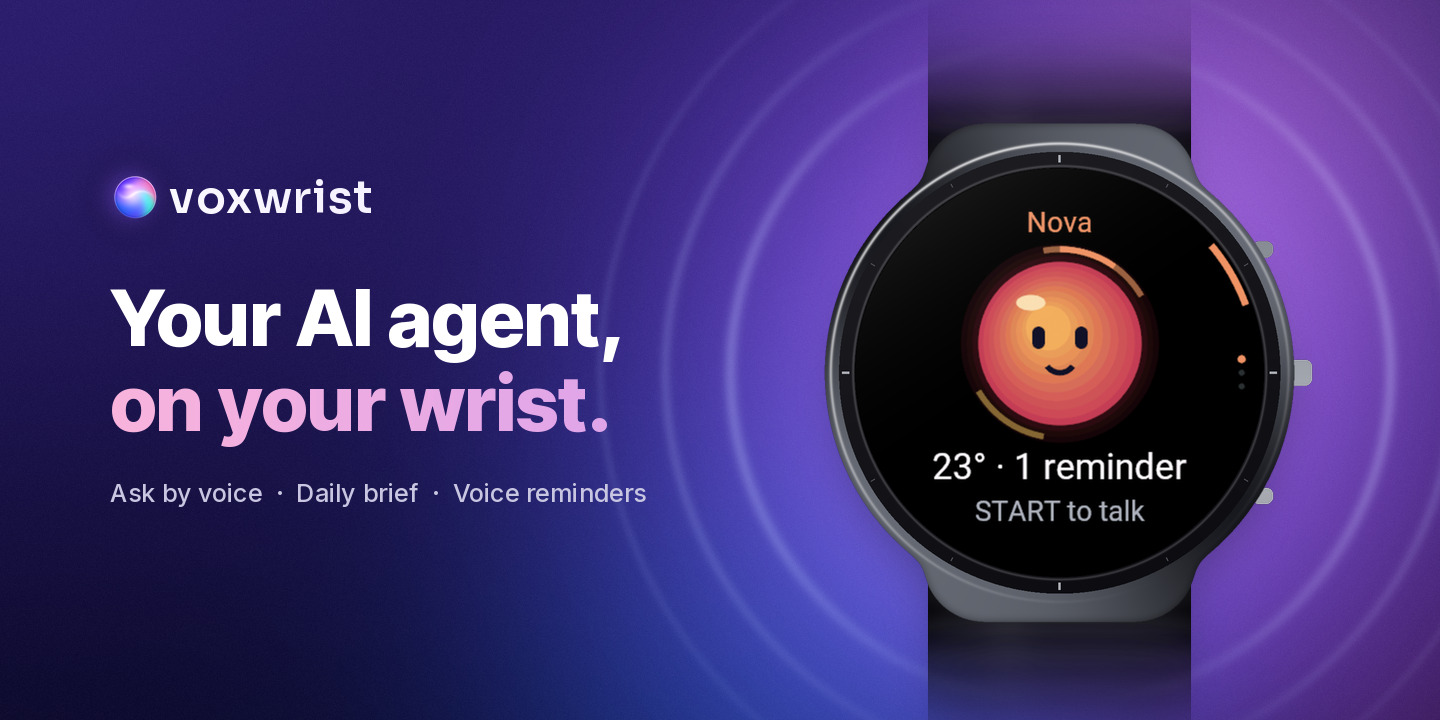
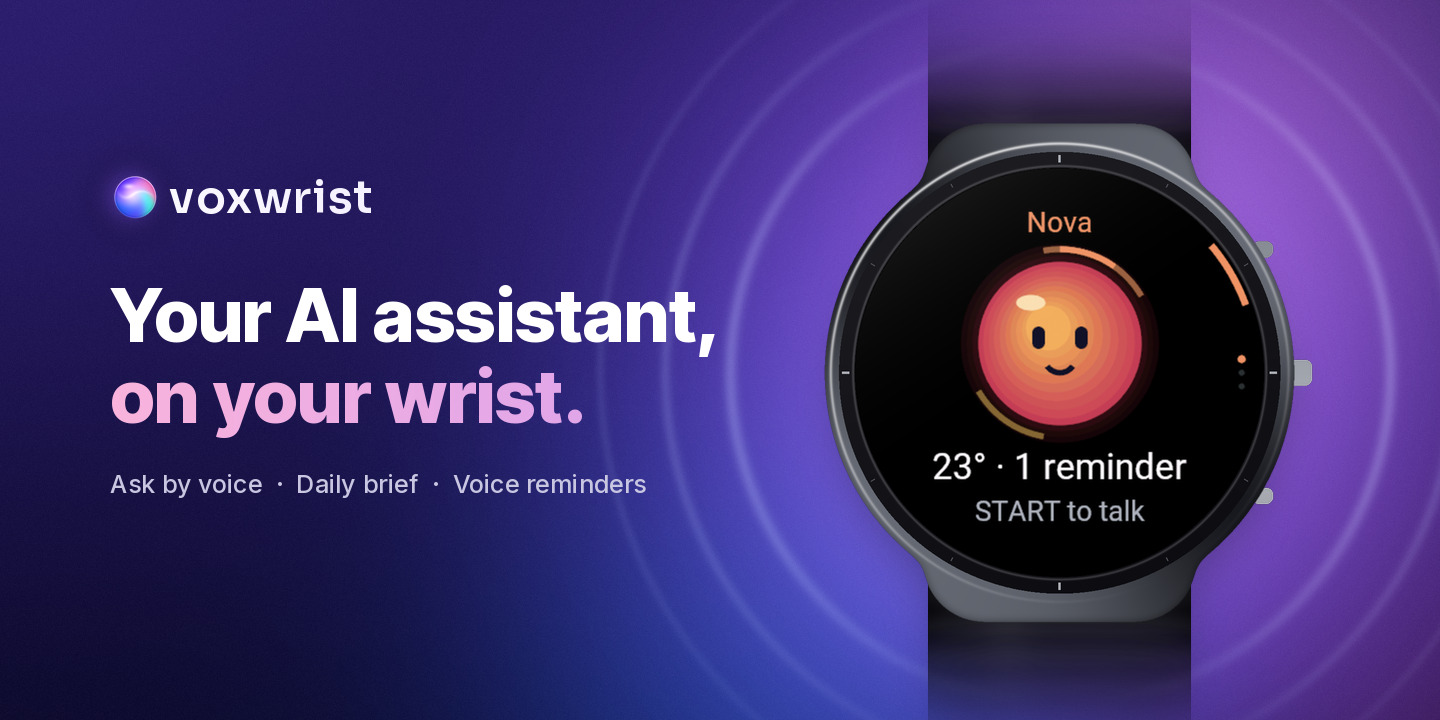
Fiche Store Ask : « assistant IA » au lieu d'« agent », e-mails/agenda/météo dès la 1re ligne, sections Fonctionne avec / clés / confidentialité, mots-clés SEO ; hero FR/EN « Votre assistant IA, à votre poignet. » / « Your AI assistant, on your wrist. »

Changed region(s): [[0.0625, 0.3972, 0.5, 0.7028]]

diff --git a/store-assets-v2/_build/hero.py b/store-assets-v2/_build/hero.py
@@ -3,8 +3,8 @@ from watch2 import watch2
 import sys
 SRC='/workspace/voxstore/src/voxwrist-site/store-screenshots/'
 HW,HH=1440,720
-TXT={'en':('Your AI agent,','on your wrist.','Ask by voice  ·  Daily brief  ·  Voice reminders'),
-     'fr':('Votre agent IA,','à votre poignet.','Questions vocales  ·  Brief du jour  ·  Rappels')}
+TXT={'en':('Your AI assistant,','on your wrist.','Ask by voice  ·  Daily brief  ·  Voice reminders'),
+     'fr':('Votre assistant IA,','à votre poignet.','Questions vocales  ·  Brief du jour  ·  Rappels')}
 def wordmark(img,x,y,size=46,mark=True):
     d=ImageDraw.Draw(img)
     if mark:

diff --git a/docs/STORE_LISTING.md b/docs/STORE_LISTING.md
@@ -60,35 +60,74 @@ EN: Needs one of the user's own API keys: OpenAI, Groq (free) or Google Gemini (
 - **Hero (1440×720)** : FR `assets-v2/voxwrist-ask-hero-1440x720-fr.jpg` · EN `assets-v2/voxwrist-ask-hero-1440x720-en.jpg`
 - **Galerie FR (5 JPG)** : `assets-v2/voxwrist-ask-screenshot-1-ask-voice-fr.jpg`, `-2-daily-brief-fr.jpg`, `-3-voice-reminders-fr.jpg`, `-4-follow-up-fr.jpg`, `-5-live-orb-fr.jpg`
 - **Galerie EN (5 JPG)** : `assets-v2/voxwrist-ask-screenshot-1-ask-voice-en.jpg`, `-2-daily-brief-en.jpg`, `-3-voice-reminders-en.jpg`, `-4-follow-up-en.jpg`, `-5-live-orb-en.jpg`
-- **Mots-clés** : assistant, ai, chatgpt, claude, voice assistant, agent, reminders, daily brief, assistant vocal, rappels
+- **Mots-clés** : assistant IA, AI assistant, voice assistant, assistant vocal, IA, AI, OpenAI, Gemini, Claude, Groq, email, e-mail, calendar, agenda, météo, weather, reminders, rappels, daily brief
+- **Accroche (1re ligne de la description)** : FR « Assistant IA vocal au poignet : posez vos questions, écoutez la réponse, retrouvez vos e-mails, votre agenda et la météo. » · EN “AI voice assistant on your wrist: ask anything, hear the answer, and check your emails, calendar and weather.” (le Store Connect IQ n'a pas de champ sous-titre : le titre reste « Voxwrist Ask »)
 
 ### Description FR
-Votre agent personnel, au poignet. Appuyez sur START, posez votre question, il vous répond à voix haute et à l'écran.
+Assistant IA vocal au poignet : posez vos questions, écoutez la réponse, retrouvez vos e-mails, votre agenda et la météo.
 
-• Un agent vivant : un orbe animé qui écoute, réfléchit et parle ; donnez-lui un nom et une couleur.
-• Brief du jour : météo, prochains rendez-vous de votre agenda, e-mails non lus, en un coup d'œil.
-• Rappels à la voix : « rappelle-moi à 18 h d'appeler Paul » ; la montre vous le rappelle à l'heure dite.
-• Conversation : enchaînez (« et demain ? ») sans répéter le contexte.
+Appuyez sur START, parlez, appuyez sur START : la réponse s'affiche à l'écran et elle est lue à voix haute (avec une clé OpenAI ou Gemini).
+
+CE QUE FAIT VOXWRIST ASK
+• Assistant vocal IA : posez n'importe quelle question à la voix, réponse à l'écran et à voix haute.
+• Brief du jour à l'ouverture : météo de votre ville, rendez-vous restants de la journée, nombre d'e-mails non lus avec les derniers expéditeurs et objets.
+• Rappels à la voix : « rappelle-moi à 18 h d'appeler Paul » ; la montre vous prévient à l'heure dite.
+• Questions de suivi : enchaînez (« et demain ? ») sans tout répéter.
+• Un orbe animé qui écoute, réfléchit et parle ; donnez-lui un nom et une couleur (Aurore, Lagon, Braise).
 • 2 appuis maximum, aucun clavier, aucun appui long.
 
-Apportez votre clé, gratuite ou payante : Google Gemini (gratuite, aistudio.google.com : réponses, et voix si disponible), Groq (gratuite, console.groq.com : réponses à l'écran) ou OpenAI (la meilleure voix, quelques centimes par jour). Anthropic Claude peut répondre, avec une clé Gemini, Groq ou OpenAI pour comprendre la voix. Sans clé OpenAI ni Gemini, la réponse s'affiche sans être lue.
-Connecteurs facultatifs (réglages) : ville pour la météo, lien iCal privé de votre agenda (Google Agenda, iCloud, Outlook), boîte e-mail IMAP en lecture seule avec mot de passe d'application.
-E-mail : fonctionne avec Gmail, iCloud, Yahoo, Orange et Free via un mot de passe d'application ; Outlook/Hotmail n'est pas pris en charge.
-Les rappels restent sur la montre. Ni l'audio, ni les textes, ni vos clés ne sont conservés par le relais Voxwrist. Pas de compte, pas de publicité.
+FONCTIONNE AVEC VOS E-MAILS, VOTRE AGENDA ET LA MÉTÉO
+Réglages facultatifs (appli Garmin Connect › Applis Connect IQ › Voxwrist Ask › Réglages) :
+• Météo : entrez votre ville (par exemple Paris).
+• Agenda : collez le lien iCal privé de votre agenda Google Agenda, iCloud ou Outlook.
+• E-mails : votre adresse et un mot de passe d'application (accès IMAP en lecture seule). Fonctionne avec Gmail, iCloud, Yahoo, Orange et Free. Les e-mails Outlook/Hotmail ne sont pas pris en charge.
+
+VOTRE CLÉ IA, GRATUITE OU PAYANTE
+• Google Gemini : gratuite (aistudio.google.com), réponses, et voix si disponible.
+• Groq : gratuite (console.groq.com), réponses à l'écran.
+• OpenAI : la meilleure voix, quelques centimes par jour.
+• Anthropic Claude : pour les réponses, avec une clé Gemini, Groq ou OpenAI pour comprendre la voix.
+Sans clé OpenAI ni Gemini, la réponse s'affiche sans être lue.
+
+CONFIDENTIALITÉ
+• Ni l'audio, ni les textes, ni vos clés ne sont conservés par le relais Voxwrist.
+• Boîte e-mail lue en lecture seule ; les rappels restent sur la montre.
+• Pas de compte, pas de publicité.
+
+Nécessite une montre Garmin avec micro, associée à l'appli Garmin Connect.
 
 ### Description EN
-Your personal agent, on your wrist. Press START, ask, and it answers out loud and on screen.
+AI voice assistant on your wrist: ask anything, hear the answer, and check your emails, calendar and weather.
 
-• A living agent: an animated orb that listens, thinks and speaks; give it a name and a colour.
-• Daily brief: weather, your next calendar events, unread emails, at a glance.
-• Voice reminders: "remind me at 6 pm to call Paul"; the watch reminds you on time.
-• Conversation: follow up ("and tomorrow?") without repeating yourself.
+Press START, speak, press START: the answer appears on screen and is read out loud (with an OpenAI or Gemini key).
+
+WHAT VOXWRIST ASK DOES
+• AI voice assistant: ask any question by voice, get the answer on screen and out loud.
+• Daily brief at launch: weather for your city, today's remaining calendar events, unread email count with the latest senders and subjects.
+• Voice reminders: "remind me at 6 pm to call Paul"; the watch alerts you on time.
+• Follow-up questions: keep going ("and tomorrow?") without repeating yourself.
+• An animated orb that listens, thinks and speaks; give it a name and a colour (Aurore, Lagon, Braise).
 • 2 presses max, no keyboard, no long press.
 
-Bring your own key, free or paid: Google Gemini (free, aistudio.google.com: answers, and voice when available), Groq (free, console.groq.com: on-screen answers) or OpenAI (best voice, a few cents a day). Anthropic Claude can answer, with a Gemini, Groq or OpenAI key to understand your voice. Without an OpenAI or Gemini key, answers are shown, not spoken.
-Optional connectors (settings): weather city, private iCal link of your calendar (Google Calendar, iCloud, Outlook), read-only IMAP mailbox with an app password.
-Mail: works with Gmail, iCloud, Yahoo, Orange and Free using an app password; Outlook/Hotmail is not supported.
-Reminders stay on the watch. Audio, texts and keys are never stored by the Voxwrist relay. No account, no ads.
+WORKS WITH YOUR EMAILS, CALENDAR AND WEATHER
+Optional settings (Garmin Connect app › Connect IQ apps › Voxwrist Ask › Settings):
+• Weather: enter your city (for example Paris).
+• Calendar: paste the private iCal link of your Google Calendar, iCloud or Outlook calendar.
+• Email: your address and an app password (read-only IMAP access). Works with Gmail, iCloud, Yahoo, Orange and Free. Outlook/Hotmail mail is not supported.
+
+YOUR AI KEY, FREE OR PAID
+• Google Gemini: free (aistudio.google.com), answers, and voice when available.
+• Groq: free (console.groq.com), on-screen answers.
+• OpenAI: best voice, a few cents a day.
+• Anthropic Claude: for answers, with a Gemini, Groq or OpenAI key to understand your voice.
+Without an OpenAI or Gemini key, answers are shown, not spoken.
+
+PRIVACY
+• Audio, texts and keys are never stored by the Voxwrist relay.
+• Mailbox is read-only; reminders stay on the watch.
+• No account, no ads.
+
+Requires a Garmin watch with a microphone, paired with the Garmin Connect app.
 
 ### Notes pour le testeur (reviewer notes)
 EN: Needs one of the user's own API keys: Google Gemini (free), Groq (free) or OpenAI (Garmin Connect › app settings). Without one the watch shows a setup screen (an Anthropic key alone is not enough: it cannot transcribe audio). Press START, speak, press START: the answer is shown, and spoken through the watch speaker with an OpenAI or Gemini key (on watches with a speaker). Swipe up/down (or UP/DOWN) for the "Today" brief and the reminders list. Calendar/mail connectors are optional.
